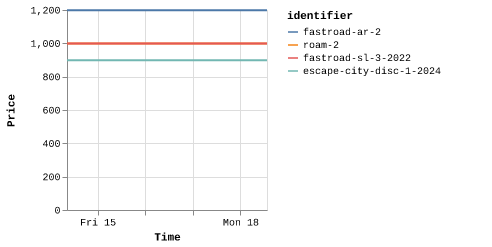
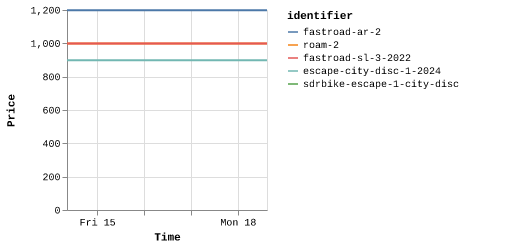
Latest scraping bikes: Mon Aug 18 14:55:05 UTC 2025

diff --git a/scrapes/bikes/sdrbike-escape-1-city-disc.md b/scrapes/bikes/sdrbike-escape-1-city-disc.md
@@ -1,0 +1,3 @@
+899,00 €
+
+[Source](https://www.sdrbike.be/GEMBLOUX/index.php/hikashop-menu-for-categories-listing/product/31240-giant-escape-1-city-disc-s-sea-sparkle)
